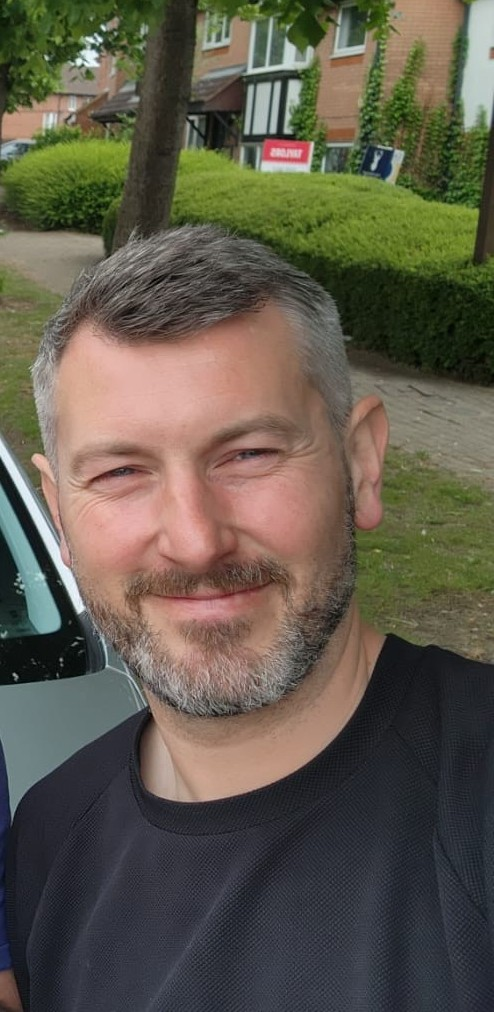
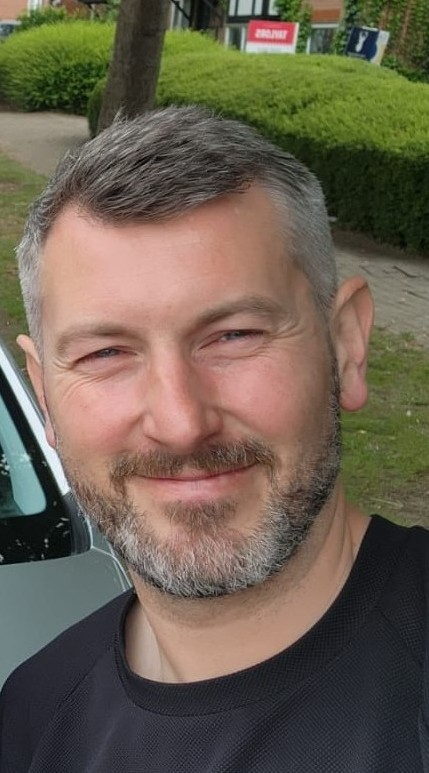
Update Patrycja/Gary copy, simplify Manual card, tweak pass-rate wording, add Patrycja booking calendar

diff --git a/index.html b/index.html
@@ -235,23 +235,48 @@
       <p class="section-subtitle">
         Choose your preferred instructor and pick a time that works for you.
       </p>
-      <div class="booking-embed">
-        <iframe
-          src="https://calendar.app.google/4KpMkFPTbg2GVFJC7"
-          width="100%"
-          height="680"
-          frameborder="0"
-          scrolling="yes"
-          title="Book a driving lesson with 121DRIVINGTUITION"
-          allow="payment">
-        </iframe>
+      <div class="booking-grid">
+        <div class="booking-col">
+          <h3 class="booking-name">Kamil</h3>
+          <div class="booking-embed">
+            <iframe
+              src="https://calendar.app.google/4KpMkFPTbg2GVFJC7"
+              width="100%"
+              height="680"
+              frameborder="0"
+              scrolling="yes"
+              title="Book a driving lesson with Kamil"
+              allow="payment">
+            </iframe>
+          </div>
+          <p style="margin-top:1.25rem;font-size:0.875rem;color:#9CA3AF;">
+            If the calendar does not load,
+            <a href="https://calendar.app.google/4KpMkFPTbg2GVFJC7"
+               target="_blank" rel="noopener noreferrer"
+               style="color:#F97316;font-weight:600;">click here to open Kamil&rsquo;s booking page</a>.
+          </p>
+        </div>
+        <div class="booking-col">
+          <h3 class="booking-name">Patrycja</h3>
+          <div class="booking-embed">
+            <iframe
+              src="https://calendar.app.google/CU6mKyjB5NKSEWJ27"
+              width="100%"
+              height="680"
+              frameborder="0"
+              scrolling="yes"
+              title="Book a driving lesson with Patrycja"
+              allow="payment">
+            </iframe>
+          </div>
+          <p style="margin-top:1.25rem;font-size:0.875rem;color:#9CA3AF;">
+            If the calendar does not load,
+            <a href="https://calendar.app.google/CU6mKyjB5NKSEWJ27"
+               target="_blank" rel="noopener noreferrer"
+               style="color:#F97316;font-weight:600;">click here to open Patrycja&rsquo;s booking page</a>.
+          </p>
+        </div>
       </div>
-      <p style="margin-top:1.25rem;font-size:0.875rem;color:#9CA3AF;">
-        If the calendar does not load,
-        <a href="https://calendar.app.google/4KpMkFPTbg2GVFJC7"
-           target="_blank" rel="noopener noreferrer"
-           style="color:#F97316;font-weight:600;">click here to open the booking page</a>.
-      </p>
       <div class="pricing-disclaimer" style="margin-top:2rem;">
         <p>* Discounted prices valid for the locations below only. For locations outside Milton Keynes City, full price would apply.</p>
         <p class="estates"><b>A</b>shland, <b>B</b>ancroft, Bancroft Park, Beanhill, Blakelands, Blue Bridge, Bolbeck Park, Bradville, Bradwell, Bradwell Common, Bradwell Village, Broughton, Brooklands, Browns Wood, <b>C</b>aldecotte, Campbell Park, Central Milton Keynes, Coffee Hall, Conniburrow, Crownhill, <b>D</b>enbigh, Downs Barn, <b>E</b>aglestone, Eagle Farm South, Emerson Valley, <b>F</b>airfields, Far Bletchley, Fenny Lock, Fenny Stratford, Fishermead, Fullers Slade, Furzton, <b>G</b>iffard Park, Granby, Grange Farm, Great Holm, Great Linford, Greenleys, <b>H</b>eelands, Hodge Lea, <b>K</b>ents Hill, Kingsmead, Kingston, <b>L</b>eadenhall, Lodge Lake, Loughton, <b>M</b>edbourne, Middleton, Milton Keynes Village, Monkston, Monkston Park, Mount Farm, <b>N</b>eath Hill, Netherfield, Newton Leys, Newport Pagnell, <b>O</b>akgrove, Oakridge Park, Old Farm Park, Oldbrook, Old Wolverton, Oxley Park, <b>P</b>eartree Bridge, Pennyland, <b>R</b>edhouse Park, <b>S</b>henley Brook End, Shenley Church End, Shenley Lodge, Simpson, Springfield, Stacey Bushes, Stantonbury, Stony Stratford, <b>T</b>attenhoe, Tattenhoe Park, Tilbrook, Two Mile Ash, <b>W</b>alnut Tree, Walton, Wavendon Gate, Water Eaton, West Bletchley, Westcroft, Whitehouse, Willen, Willen Park, Wolverton, Wolverton Mill, Wolverton Mill East, Woughton on the Green.</p>

diff --git a/driving_instructor_mk_about.html b/driving_instructor_mk_about.html
@@ -75,7 +75,7 @@
           <span class="instructor-badge">Driving Instructor &middot; Manual</span>
           <p>
             Patrycja is a dedicated and passionate driving instructor experienced in teaching
-            both manual and automatic vehicles. She specialises in supporting nervous drivers,
+            in a calm and confident manner. She specialises in supporting nervous drivers,
             creating a calm and reassuring environment that builds confidence from the very first
             lesson. Whether you are looking for regular weekly lessons or an intensive course to
             progress quickly, Patrycja tailors every session to your individual needs and learning pace.
@@ -133,13 +133,13 @@
         </div>
         <div class="why-card">
           <i class="fas fa-car-side"></i>
-          <h3>Manual &amp; Automatic</h3>
-          <p>Lessons available in both manual and automatic vehicles &mdash; you choose what suits you best.</p>
+          <h3>Manual</h3>
+          <p>Lessons available for manual vehicles.</p>
         </div>
         <div class="why-card">
           <i class="fas fa-star"></i>
           <h3>Proven Results</h3>
-          <p>94% first-time pass rate, established since 1999 with hundreds of happy students. All instructors DVSA Approved.</p>
+          <p>High first-time pass rate, established since 1999 with hundreds of happy students. All instructors DVSA Approved.</p>
         </div>
       </div>
     </div>

diff --git a/css/driving_instructor_mk_style.css b/css/driving_instructor_mk_style.css
@@ -293,6 +293,19 @@ ul   { list-style: none; }
 }
 
 /* Booking embed */
+.booking-grid {
+  display: grid;
+  grid-template-columns: 1fr 1fr;
+  gap: 1.5rem;
+}
+.booking-name {
+  font-family: var(--font-head);
+  font-size: 1.125rem;
+  font-weight: 700;
+  color: var(--dark);
+  text-align: center;
+  margin-bottom: 0.75rem;
+}
 .booking-embed {
   border-radius: var(--radius-lg);
   overflow: hidden;
@@ -704,6 +717,9 @@ footer {
   /* Instructor card */
   .instructor-card { grid-template-columns: 1fr; }
   .instructor-avatar { width: 100%; height: 260px; }
+
+  /* Booking: stack calendars, Kamil first */
+  .booking-grid { grid-template-columns: 1fr; gap: 2.5rem; }
 
   /* Process */
   .step-item { grid-template-columns: 56px 1fr; gap: 1.25rem; }
